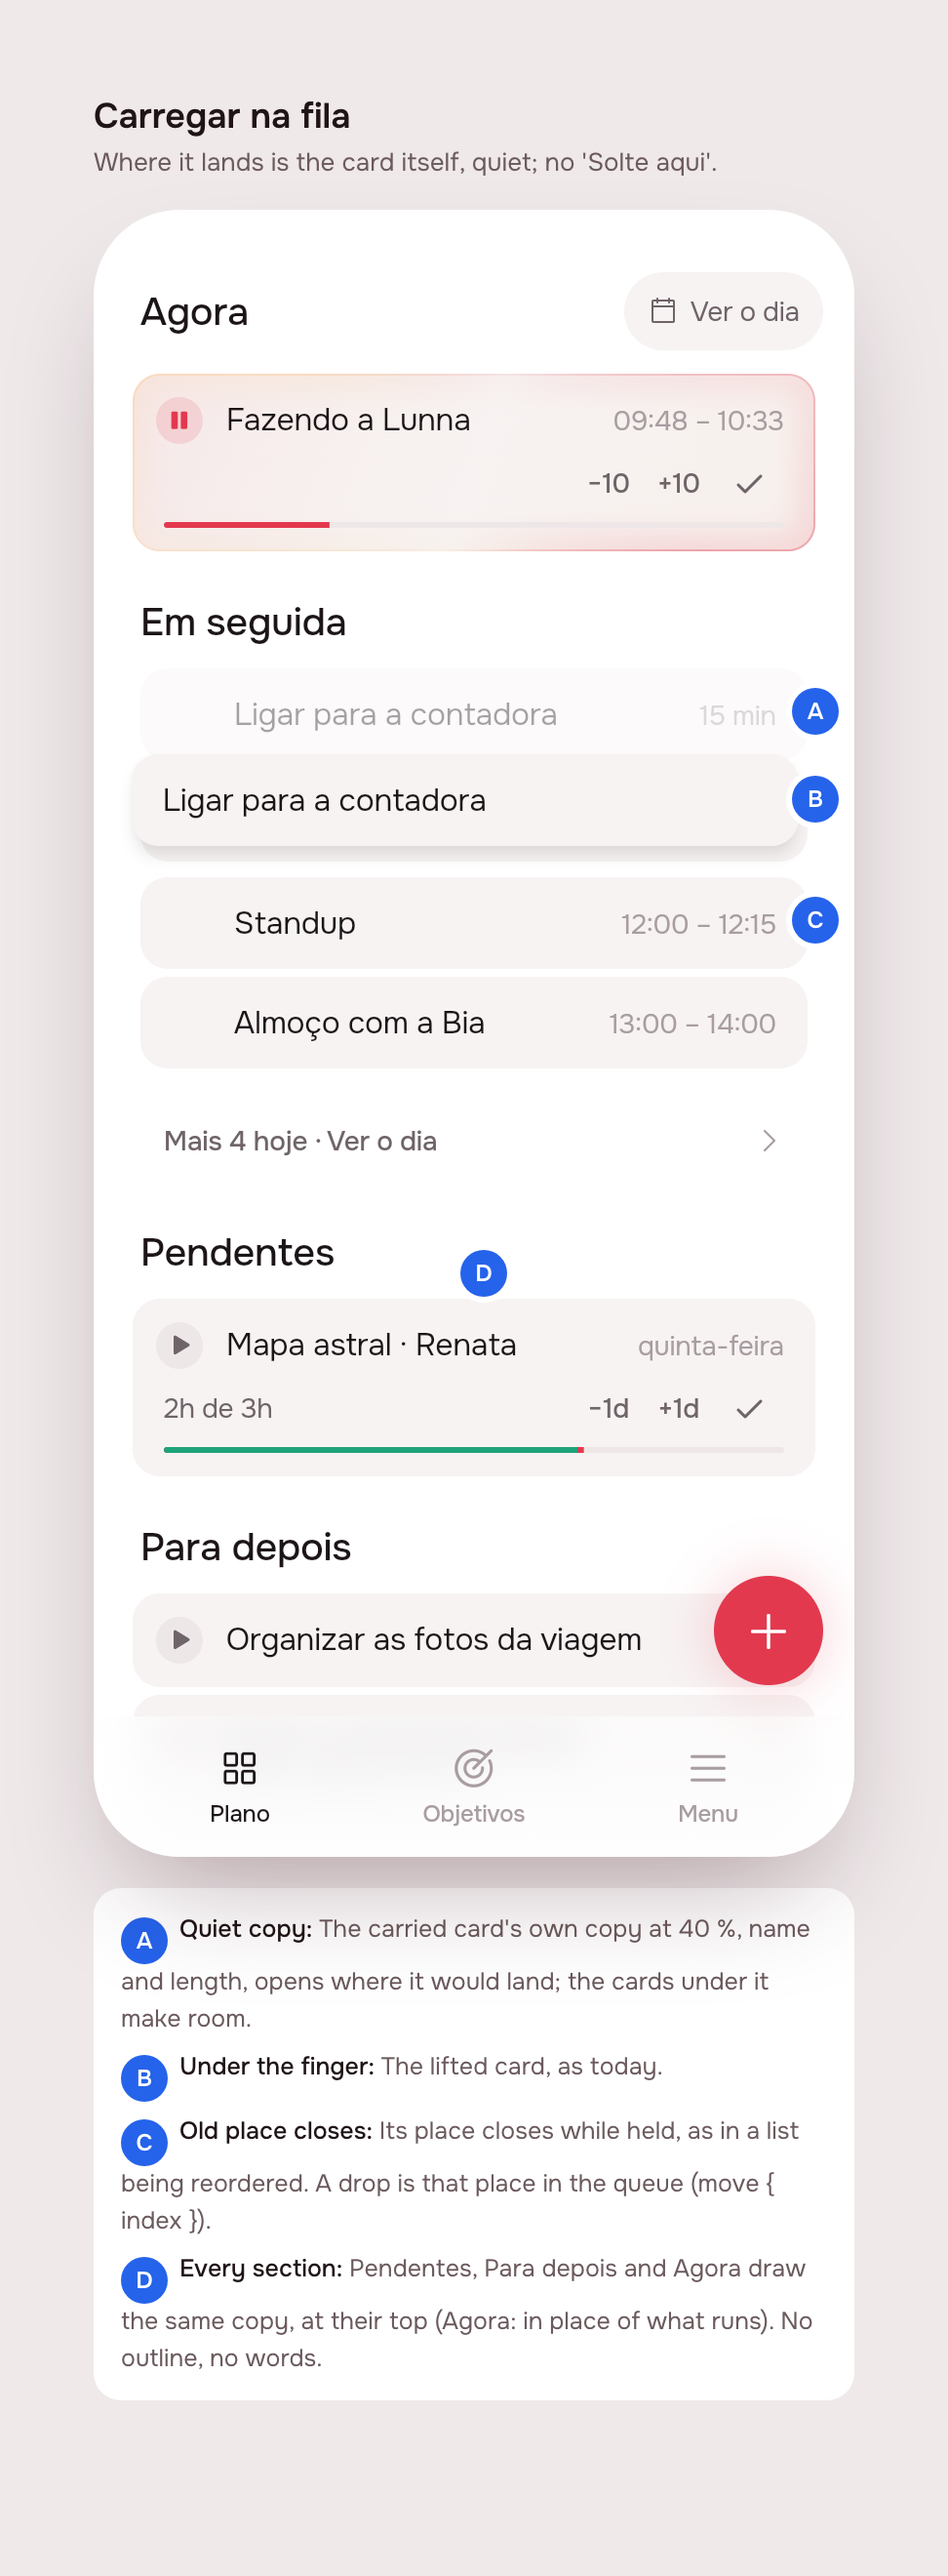
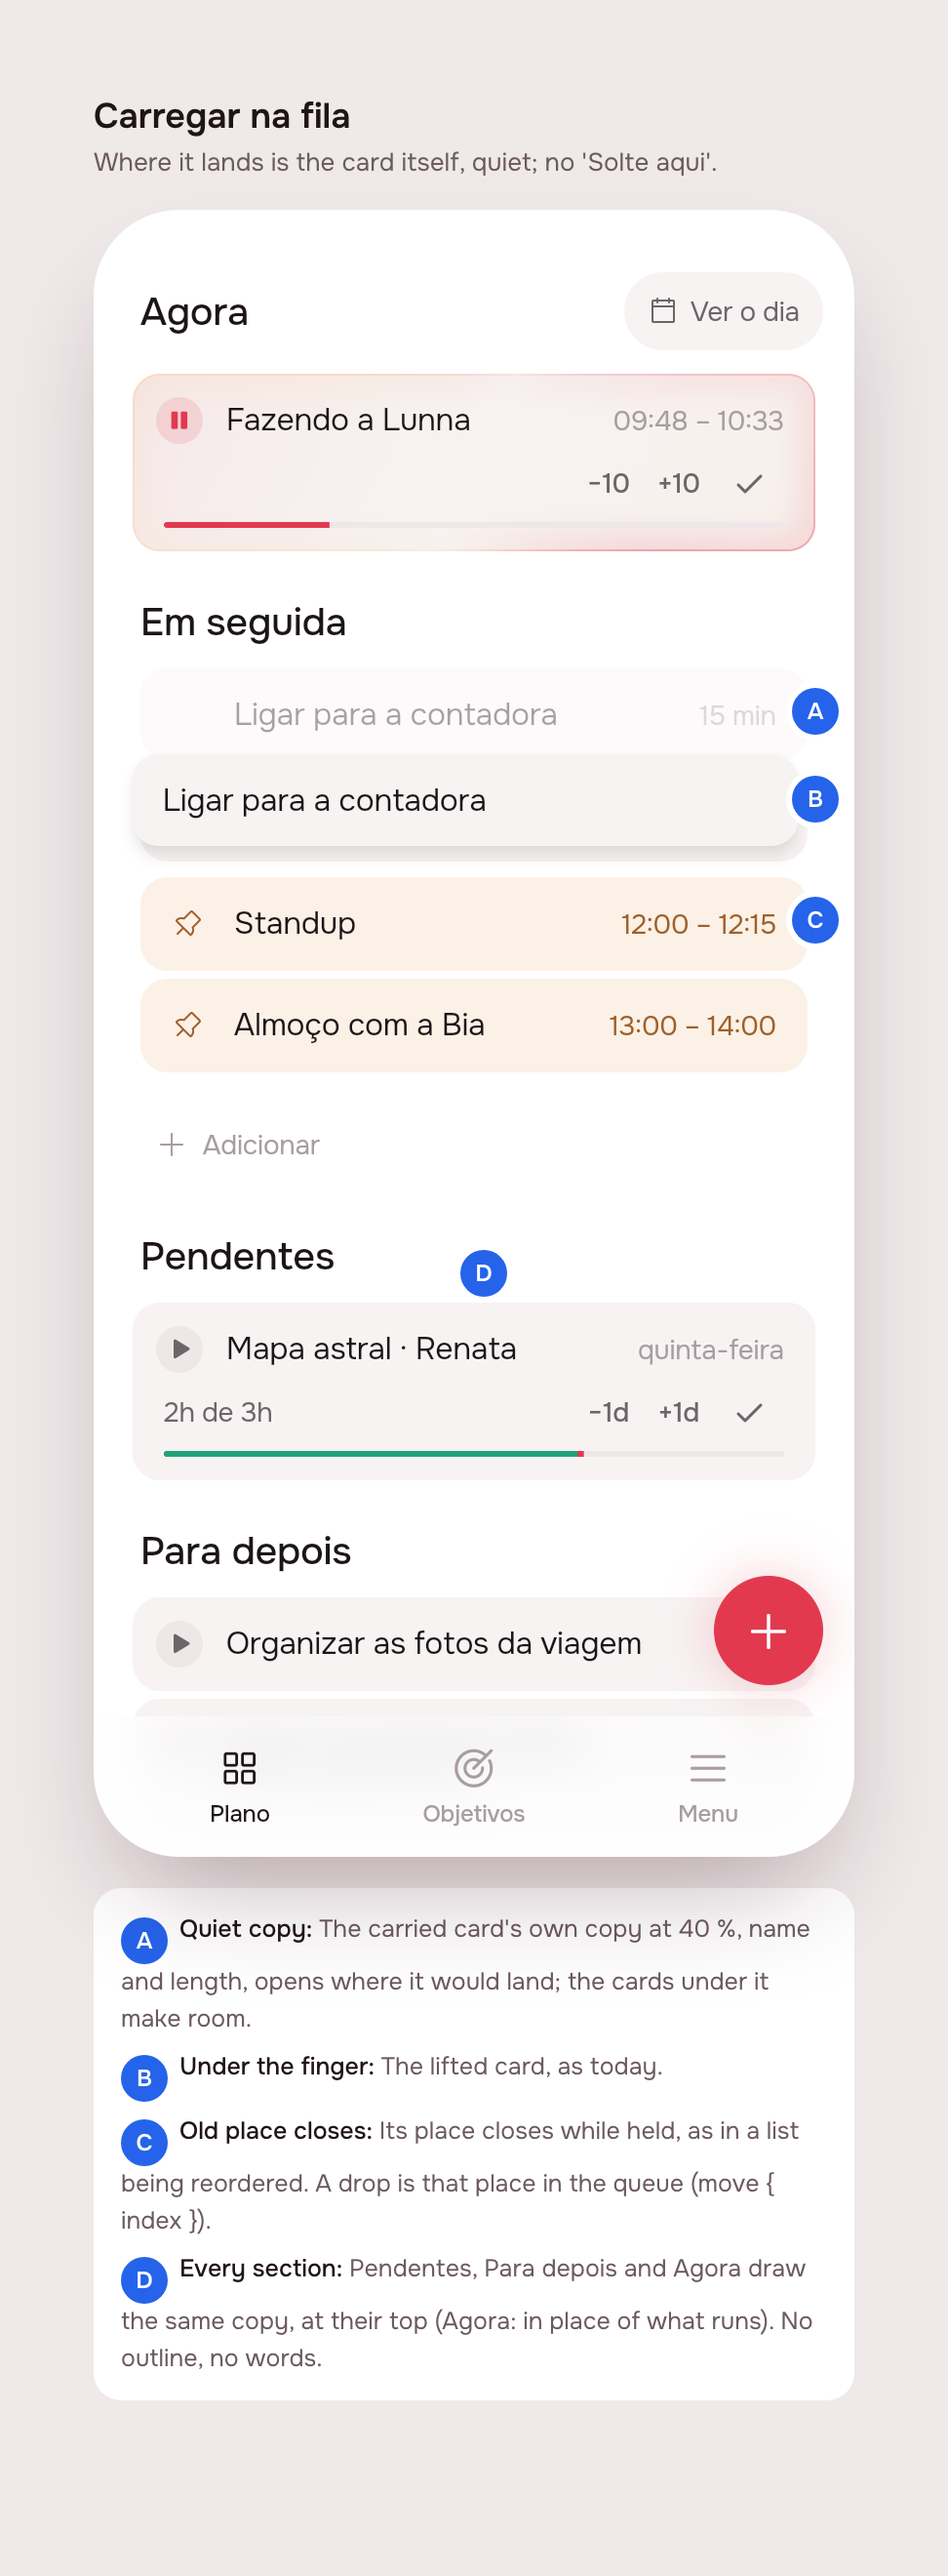
create(#85): revise · UI and UX improvements: part 4

diff --git a/app/lib/plan/view/home_page.dart b/app/lib/plan/view/home_page.dart
@@ -258,13 +258,20 @@ class _HomePageState extends State<HomePage> {
                             _NextCard(card: card),
                           ),
                         ),
-                        if (items.nextMore > 0)
-                          _Pad(
-                            child: _OpenRow(
-                              text: l10n.homeNextMore(items.nextMore),
-                              onTap: widget.onSeeDay,
+                        // The queue ends in a +, as Lista's day did: it
+                        // writes a task right after the last one here.
+                        _Pad(
+                          child: AppAddRow(
+                            onTap: () => unawaited(
+                              writeTask(
+                                context,
+                                placement: Placement.queue(
+                                  queueEndOf(day.tasks, items),
+                                ),
+                              ),
                             ),
                           ),
+                        ),
                       ],
                       if (items.pending.isNotEmpty || _carrying)
                         PlanDropTarget(
@@ -390,10 +397,20 @@ class _NextCard extends StatelessWidget {
   @override
   Widget build(BuildContext context) {
     final parent = card.artifactTitle;
+    // An event is drawn as the calendar draws it: its own fill and its pin
+    // (a routine's day, its repeat) where a task's play would be.
+    final (fill, mark, ink) = card.isTask
+        ? (null, null, null)
+        : card.isRoutine
+        ? (AppColors.routineFill, AppIcons.repeat, AppColors.routineInk)
+        : (AppColors.fixedFill, AppIcons.pin, AppColors.fixedInk);
     return TaskCard(
       title: parent ?? card.title,
       subtitle: parent == null ? null : card.title,
       trailing: '${hhmm(card.startTime)} – ${hhmm(card.endTime)}',
+      fill: fill,
+      mark: mark,
+      markInk: ink,
       onPlay: card.isTask
           ? () => unawaited(playCard(context, card))
           : null,

diff --git a/app/packages/timeline/lib/src/widgets/task_card.dart b/app/packages/timeline/lib/src/widgets/task_card.dart
@@ -74,6 +74,8 @@ class TaskCard extends StatelessWidget {
     this.bar,
     this.onTap,
     this.keepPlaySlot = false,
+    this.mark,
+    this.markInk,
     super.key,
   });
 
@@ -135,6 +137,14 @@ class TaskCard extends StatelessWidget {
   /// among tasks lines its title up with theirs.
   final bool keepPlaySlot;
 
+  /// Without [onPlay], what the button's room shows instead: an event's
+  /// pin (a routine's repeat), as the calendar marks it.
+  final AppIconData? mark;
+
+  /// The colour of [mark] and of [trailing] on a [fill] that grey would
+  /// sink into ([AppColors.fixedInk] on [AppColors.fixedFill]).
+  final Color? markInk;
+
   /// [subtitle], unless it only says the title again: a task whose one
   /// task is itself is drawn by its name alone.
   String? get _subtitle {
@@ -166,6 +176,18 @@ class TaskCard extends StatelessWidget {
               if (onPlay != null) ...[
                 TaskPlayButton(playing: playing, onPressed: onPlay),
                 const SizedBox(width: AppSpacing.s3),
+              ] else if (mark case final mark?) ...[
+                SizedBox.square(
+                  dimension: TaskPlayButton.size,
+                  child: Center(
+                    child: AppIcon(
+                      iconData: mark,
+                      size: AppSpacing.s4,
+                      color: markInk ?? AppColors.ink3,
+                    ),
+                  ),
+                ),
+                const SizedBox(width: AppSpacing.s3),
               ] else if (keepPlaySlot)
                 const SizedBox(width: TaskPlayButton.size + AppSpacing.s3)
               else
@@ -191,7 +213,7 @@ class TaskCard extends StatelessWidget {
                           Text(
                             trailing!,
                             style: AppTypography.label.copyWith(
-                              color: AppColors.ink3,
+                              color: trailingInk ?? markInk ?? AppColors.ink3,
                             ),
                           ),
                         ],

diff --git a/app/lib/plan/view/plan_items.dart b/app/lib/plan/view/plan_items.dart
@@ -15,7 +15,7 @@ import 'package:timeline/timeline.dart';
 /// each section reads as one list.
 const double kQueueGap = AppSpacing.s1;
 
-/// How many cards Em seguida draws before it counts the rest.
+/// How many cards Em seguida draws; the calendar has the rest.
 const kNextOnHome = 4;
 
 /// {@template plan_items}
@@ -25,7 +25,7 @@ const kNextOnHome = 4;
 ///
 /// - [now], the card on Agora, and [next], the queue after it: the cards
 ///   of the first day that has any (today, while it has some left), up
-///   to [kNextOnHome], with [nextMore] counting the rest of that day.
+///   to [kNextOnHome].
 /// - [pending]: every task begun and not finished: the deliveries begun
 ///   ([isStarted]), the most urgent first as Entregas put them, then the
 ///   loose tasks paused off the day ([TimelineEvent.pending]). The
@@ -59,7 +59,6 @@ class PlanItems {
     return PlanItems._(
       now: agora,
       next: sameDay.take(kNextOnHome).toList(),
-      nextMore: (sameDay.length - kNextOnHome).clamp(0, sameDay.length),
       pending: [
         for (final a in groups.started)
           if (a.id != running) PendingDelivery(a),
@@ -78,7 +77,6 @@ class PlanItems {
   const PlanItems._({
     required this.now,
     required this.next,
-    required this.nextMore,
     required this.pending,
     required this.later,
   });
@@ -89,9 +87,6 @@ class PlanItems {
   /// The queue after Agora, in its order: tasks to play and to carry, and
   /// the fixed blocks between them, which keep their place.
   final List<TimelineEvent> next;
-
-  /// How many more cards that day has after [next].
-  final int nextMore;
 
   static bool _sameDay(DateTime a, DateTime b) =>
       a.year == b.year && a.month == b.month && a.day == b.day;

diff --git a/app/packages/l10n/lib/src/gen/app_localizations.dart b/app/packages/l10n/lib/src/gen/app_localizations.dart
@@ -3515,12 +3515,6 @@ abstract class AppLocalizations {
   /// **'Falta {length}'**
   String pendingTaskLeft(String length);
 
-  /// Under Em seguida's first cards: how many more the day has; opens the calendar.
-  ///
-  /// In pt, this message translates to:
-  /// **'{count, plural, =1{Mais 1 hoje · Ver o dia} other{Mais {count} hoje · Ver o dia}}'**
-  String homeNextMore(int count);
-
   /// Play on a loose task over an hour: a piece begins, the rest waits in Pendentes.
   ///
   /// In pt, this message translates to:

diff --git a/app/lib/plan/view/plan_drag.dart b/app/lib/plan/view/plan_drag.dart
@@ -170,6 +170,11 @@ int _placeIn(
   return now != null && now.isTask && now.id != id ? 1 : 0;
 }
 
+/// The place in the list of tasks ([tasks]) right after the last task Em
+/// seguida draws: where its + writes.
+int queueEndOf(List<TimelineEvent> tasks, PlanItems items) =>
+    _placeIn(tasks, items, '', null);
+
 /// Begins [artifact], asking its day first when it has none.
 Future<void> _begin(BuildContext context, Artifact artifact) async {
   final cubit = context.read<ArtifactsCubit>();

diff --git a/app/packages/l10n/lib/src/gen/app_localizations_pt.dart b/app/packages/l10n/lib/src/gen/app_localizations_pt.dart
@@ -2274,17 +2274,6 @@ class AppLocalizationsPt extends AppLocalizations {
   }
 
   @override
-  String homeNextMore(int count) {
-    String _temp0 = intl.Intl.pluralLogic(
-      count,
-      locale: localeName,
-      other: 'Mais $count hoje · Ver o dia',
-      one: 'Mais 1 hoje · Ver o dia',
-    );
-    return '$_temp0';
-  }
-
-  @override
   String playPieceBodyLoose(String title, String length) {
     return '$title tem $length pela frente. O resto espera em Pendentes.';
   }

diff --git a/product/delivery/2026-11-03-ux-part-4/README.md b/product/delivery/2026-11-03-ux-part-4/README.md
@@ -17,6 +17,10 @@ From the issue, verbatim:
 > - The dragging should not show "solte aqui". It should be just a discrete preview of the task in the future position
 > - When playing a task that is greater than 1h im not asked about the dialog as should be here https://github.com/pietroid/lunna/issues/83. I doubt this is imlpemented to the end
 
+The design was reviewed on the issue, and the person replied:
+
+> The events on the home page should have the same color and the pin icon  to maintain consistency. Also, remove the "Mais 4 hoje" and add instead a + adicionar, very similar to what we had before
+
 ## 2. The design
 
 ![The board](img/mockup-board.png)
@@ -48,8 +52,12 @@ Here **every play of a task over an hour asks**, wherever it is pressed.
 ### The rules
 
 - **Em seguida is a section, headed as Agora is**, and a queue: the rest
-  of the day's cards in order, up to four, then *Mais N hoje · Ver o
-  dia*. Every task plays (a fixed block keeps the play's room, as now). A
+  of the day's cards in order, up to four, then **+ Adicionar**
+  (`AppAddRow`, as Lista's day ended), which writes a task right after
+  the last one drawn. Every task plays. **An event is drawn as the
+  calendar draws it**: the sand fill (`fixedFill`) and the pin in the
+  play's room, its hours in `fixedInk` (a routine's day: `routineFill`
+  and the repeat). A
   card is held and carried to **a place** in it (before a card, or after
   the last) or to another section; a drop between two tasks is that
   place in the queue (`move { index }`), counted as a move counts.
@@ -73,8 +81,8 @@ Here **every play of a task over an hour asks**, wherever it is pressed.
 |-----|----------|--------|
 | 1A | Heading | Em seguida is a section heading, the same size as Agora and Pendentes, no longer a caption. |
 | 1B | Play on all | Every task in the queue has the round play on its left; over an hour it asks first (3). |
-| 1C | Fixed block | An event keeps the play's room empty, so titles line up; it is not carried. |
-| 1D | Four, then count | The rest of the day's cards, up to four; 'Mais N hoje · Ver o dia' opens the calendar. |
+| 1C | Event, as on the calendar | An event has the calendar's sand fill and its pin where the play would be, so titles line up; it is not carried. |
+| 1D | + Adicionar | The rest of the day's cards, up to four, then '+ Adicionar', as Lista's day ended: it writes a task right after the last one drawn. |
 | 1E | Composer (#81) | The + opens #81's composer, built in this delivery: no agent bar on Plano. |
 | 2A | Quiet copy | The carried card's own copy at 40 %, name and length, opens where it would land; the cards under it make room. |
 | 2B | Under the finger | The lifted card, as today. |
@@ -89,7 +97,7 @@ Here **every play of a task over an hour asks**, wherever it is pressed.
 | 4C | Play on cards | Each task not begun keeps its play; over an hour it asks (3). |
 | 4D | Bar goes | The ask bar is replaced by the composer's + here too, with #81's build. |
 
-No new icon: the round play and pause are `TaskPlayButton` (Phosphor `AppIcons.play`, `AppIcons.pause`), the + is `AppFab`'s.
+No new icon: the round play and pause are `TaskPlayButton` (Phosphor `AppIcons.play`, `AppIcons.pause`), an event's mark is the calendar's `AppIcons.pin` (a routine's `AppIcons.repeat`), the + is `AppFab`'s and `AppAddRow`'s.
 
 ### References
 
@@ -106,8 +114,17 @@ block's control on the left, where every block's is).
 - **#81 is built here as approved**, not redesigned: its decisions and
   open questions (none left) carry over, in its own README.
 - **Em seguida draws one day**: the first day after Agora that has cards
-  (today while it has any left), at most four, then the counting row to
-  the calendar. Four keeps Pendentes in sight on a phone.
+  (today while it has any left), at most four, then + Adicionar. Four
+  keeps Pendentes in sight on a phone. The rest of the day is no longer
+  counted there: *Ver o dia*, beside Agora's heading, opens it.
+- **Em seguida's + writes into the queue**, right after its last task
+  (`Placement.queue`, counted as a drop after the last card counts), not
+  into Para depois as the `AppFab` does: it ends that list, as Lista's
+  day's + did. It opens the same sheet as the `AppFab` (`writeTask`:
+  Tarefa | Evento, Produto).
+- **The event's mark sits in the play's room** (centred in the 24 px a
+  play takes) rather than before the title as on the calendar, so every
+  title in Em seguida starts on one line.
 - **Em seguida is drawn while a card is carried even when empty**, so a
   card from Pendentes or Para depois can be queued.
 - **The drop's copy is the card at 40 %**, with its name and length and an
@@ -136,12 +153,13 @@ block's control on the left, where every block's is).
 | File | What |
 |------|------|
 | `app/lib/ux_part_4_preview.dart` | the preview entry point, `?s=1..4` (delete at Phase 4) |
-| `app/lib/plan/view/plan_items.dart` | `PlanItems.next` is a list (`kNextOnHome`, `nextMore`); `playCard` asks over an hour |
+| `app/lib/plan/view/plan_items.dart` | `PlanItems.next` is a list (`kNextOnHome`); `playCard` asks over an hour |
 | `app/lib/plan/view/play_sheet.dart` | `PlaySheet.task` (a loose task), `playCardAsks`, `PlaySheet.show(context, sheet)` |
-| `app/lib/plan/view/plan_drag.dart` | `PlanQueue` (a slot before each card and one at the end), `PlanDropGhost`, `queueDropper`, `dropOnPlan(before:)` with `_placeIn`; `PlanDropGap` gone; the carried card's place closes |
-| `app/lib/plan/view/home_page.dart` | Em seguida under a `_Heading`, as a `PlanQueue`; ghosts on Pendentes, Para depois and Agora (`NowDropZone`) |
+| `app/lib/plan/view/plan_drag.dart` | `PlanQueue` (a slot before each card and one at the end), `PlanDropGhost`, `queueDropper`, `dropOnPlan(before:)` with `_placeIn`, `queueEndOf` (where Em seguida's + writes); `PlanDropGap` gone; the carried card's place closes |
+| `app/lib/plan/view/home_page.dart` | Em seguida under a `_Heading`, as a `PlanQueue`, ending in `AppAddRow`; `_NextCard` draws an event with `fixedFill` and the pin (a routine's day, `routineFill` and repeat); ghosts on Pendentes, Para depois and Agora (`NowDropZone`) |
+| `app/packages/timeline/lib/src/widgets/task_card.dart` | `TaskCard.mark` (an icon in the play's room when there is no play) and `markInk` (the mark and the hours); `trailingInk` now applied |
 | `app/packages/timeline/lib/src/widgets/event_tile.dart` | Agora's task: `TaskPlayButton` before the title (`_leadingToggle`); `EventControls(play:)` |
-| `app/packages/l10n/lib/arb/app_pt.arb` (+ `gen/`) | `homeNextMore`, `playPieceBodyLoose`; `planDropHere`, `planDropStart` removed |
+| `app/packages/l10n/lib/arb/app_pt.arb` (+ `gen/`) | `playPieceBodyLoose`; `planDropHere`, `planDropStart` removed (`homeNextMore`, added in round 1, removed again in round 2) |
 
 ### Server
 
@@ -166,7 +184,10 @@ block's control on the left, where every block's is).
   whole: the dock's bar goes, `ComposeButton` everywhere at
   `AppFab.location`, wired to the compose route, Adicionar / Ajustar /
   Conversar / Aplicar, "+ Subtarefa" on a loose task's page.
-- **Em seguida**: as drawn. Check `_placeIn` against the server's move
+- **Em seguida**: as drawn. Its + (`queueEndOf`) must land after the
+  last task drawn, also when the last card is an event (it counts the
+  last *task* above it) and when Em seguida is empty (after Agora's task,
+  or first). Check `_placeIn` against the server's move
   counting on a reorder downwards (the carried task taken out first) and
   around a fixed block in the queue; an event in Em seguida is not
   carriable.
@@ -179,10 +200,15 @@ block's control on the left, where every block's is).
   `EventTile` (scene 4 shows a loose task only).
 - **Tests**: the design's changes were not run against the existing
   tests; `test/plan/home_page_test.dart` still expects the old Em seguida
-  (one card under a caption) and the old drop. Update it with
+  (one card under a caption) and the old drop: after round 2 it runs 11
+  passing, 2 failing ("draws the break and an empty Para depois on an
+  empty day" looks for "Nada em andamento"; "carries a task of Para depois
+  to Agora, which begins it"). Update it with
   `home_page_test` (Em seguida's heading, a card per task, play
-  on each, a reorder posts the right index, the ghost and no "Solte
-  aqui"), `play_sheet` for a loose task (piece, whole, talk, cancel),
+  on each, an event with the pin and `fixedFill` and no play, + Adicionar
+  opens the sheet and writes at the queue's end, no "Mais N hoje", a
+  reorder posts the right index, the ghost and no "Solte aqui"),
+  `task_card` (a mark in the play's room, its ink on the hours), `play_sheet` for a loose task (piece, whole, talk, cancel),
   `event_tile` (Agora's round button pauses, begins a waiting task, none
   for an event or in overtime); server e2e for the split (piece begins,
   rest pending, whole, refused).
